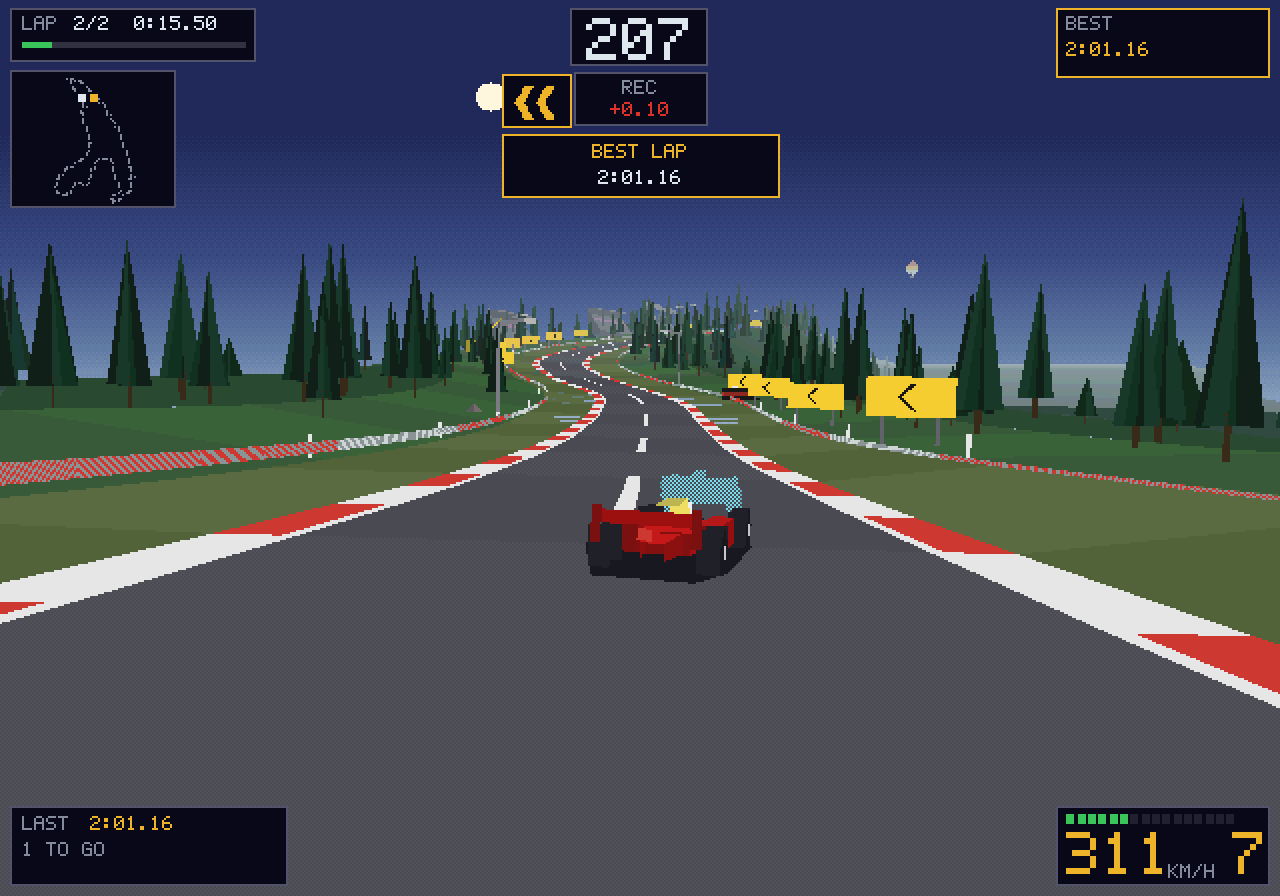
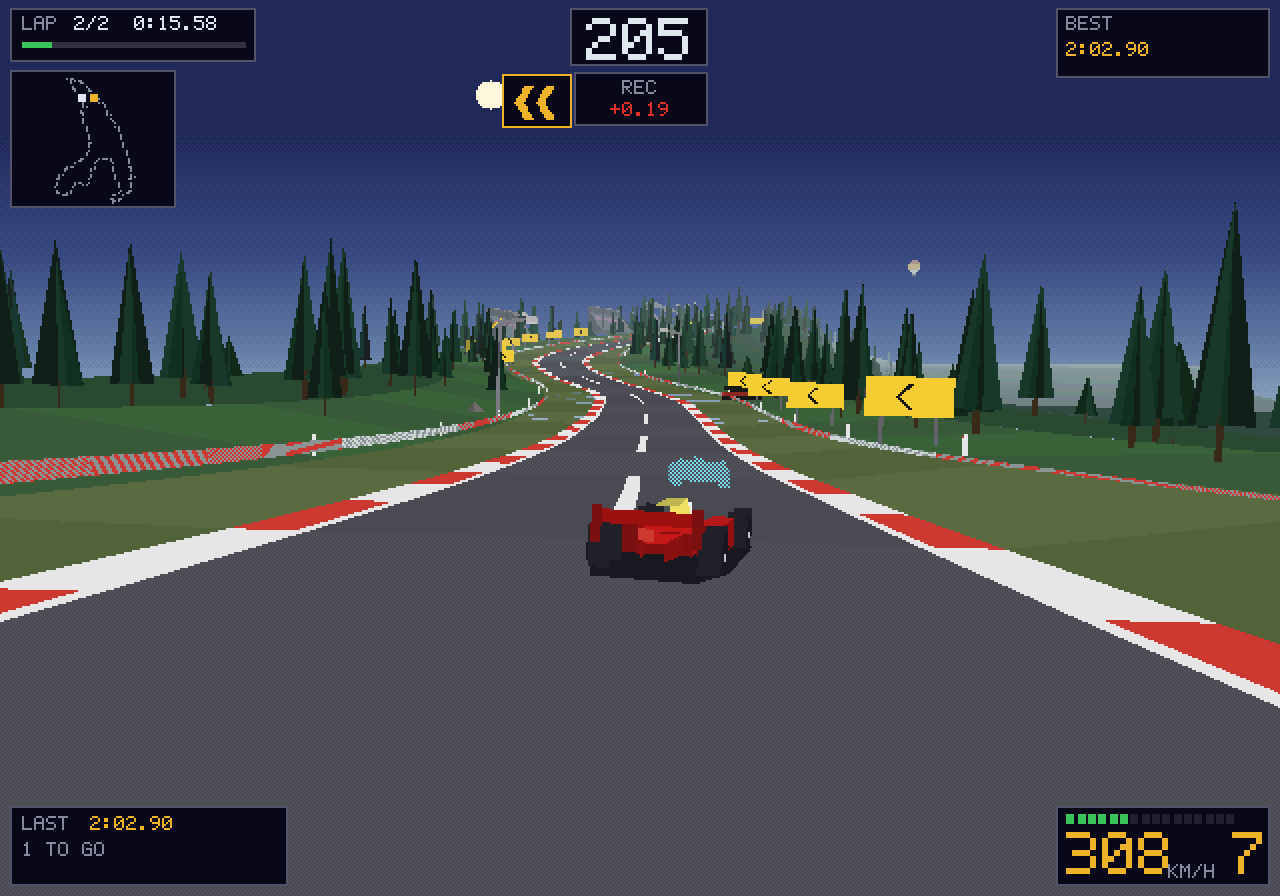
Both cars off the centre line, and the lap panel finally goes away
Asking for the Las Vegas car to be off the road marking turned up something
that had nothing to do with photographs: `lapNote` and `checkNote` are set to a
hundred and thirty when you cross the line or a gantry, the head-up display
draws their panels while they are above nought, and nothing anywhere counted
them down. The comment beside them says "for two seconds". They were up for the
rest of the race - which is why BEST LAP was sitting across the Eiffel Tower in
the picture, and across the road in every game since they were written.

They now last the two seconds they claim to.

The ghost is further up the road at Spa, which is as far as it goes: it sets off
level with you at the start line and Eau Rouge is twenty seconds later, so
sixteen to thirty metres is what there is. Far enough to be a car you are
chasing rather than one on your gearbox.

Claude-Session: https://claude.ai/code/session_01PZ8PyQkJ4DK33cMJsF6sRB

diff --git a/tools/screenshot.js b/tools/screenshot.js
@@ -155,8 +155,13 @@ if (route === 'docs') {
      */
     ['vegas', (s) => {
       const at = player(s).s % s.route.metres;
-      return at > s.route.metres * 0.812 && at < s.route.metres * 0.826
-        && player(s).speed > 45;
+      // Off the centre line, like the Spa one: a car sitting on the road marking
+      // and straddling it reads as a mistake in a still, whatever it is doing at
+      // three hundred.
+      // And not in the two seconds after a lap, when the panel that reports it
+      // sits in the middle of the picture - which is over the tower.
+      return at > s.route.metres * 0.796 && at < s.route.metres * 0.836
+        && Math.abs(player(s).x) > 1.6 && player(s).speed > 45 && s.lapNote === 0;
     }, 'vegas', 'gp', 0.95, true],
     ['climb', (s) => {
       const at = player(s).s % s.route.metres;
@@ -177,9 +182,12 @@ if (route === 'docs') {
       return s.ghost && s.delta !== null && player(s).lap >= 1
         && s.ghostAt && !s.ghostAt.done
         && Math.abs(player(s).x) > 1.2
-        && at > s.route.metres * 0.100 && at < s.route.metres * 0.175
-        && s.ghostCar.s - player(s).s > 5 && s.ghostCar.s - player(s).s < 140;
-    }, 'spa', 'qual'],
+        && at > s.route.metres * 0.090 && at < s.route.metres * 0.190
+        // Up the road rather than on your gearbox - and not much further than
+        // this is available, because the ghost sets off level at the line and
+        // Eau Rouge is twenty seconds later.
+        && s.ghostCar.s - player(s).s > 16 && s.ghostCar.s - player(s).s < 30;
+    }, 'spa', 'qual', 0.90],
     ['grid', (s) => s.lights > 20 && s.lights < 60, 'pass', 'gp'],
     ['pass', (s) => player(s).s > 1800 && player(s).speed > 78, 'pass', 'gp'],
     ['battle', (s) => s.cars.some((c) => c !== player(s) && Math.abs(c.s - player(s).s) < 14

diff --git a/src/game/sim.js b/src/game/sim.js
@@ -91,6 +91,17 @@ export function step(state, mask = 0) {
   }
 
   state.elapsed++;
+  /**
+   * The two panels that are meant to be up for two seconds.
+   *
+   * `lapNote` and `checkNote` were set to a hundred and thirty and never counted
+   * down by anybody: the renderer draws them while they are above nought, so the
+   * lap you had just done stayed in the middle of the screen for the rest of the
+   * race. Two seconds is what the comment beside them says and is what they now
+   * get.
+   */
+  if (state.lapNote > 0) state.lapNote--;
+  if (state.checkNote > 0) state.checkNote--;
   state.clock -= DT;
   // The afternoon going, if it is going at all. Measured on distance rather
   // than on the clock, so a race that has gone badly gets dark at the same place
